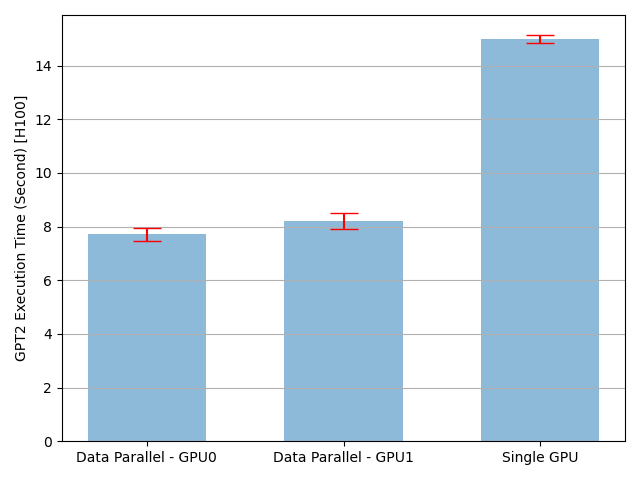
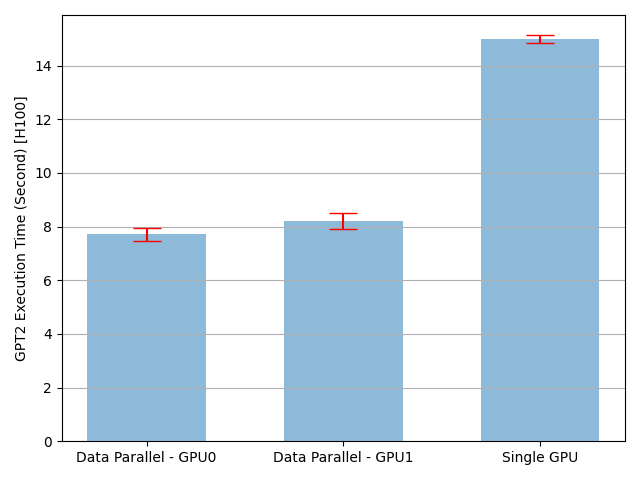
HW5 submission

diff --git a/homeworks/llmsys_f25_hw5/pipeline/pipe.py b/homeworks/llmsys_f25_hw5/pipeline/pipe.py
@@ -5,7 +5,7 @@ from torch import Tensor, nn
 import torch.autograd
 import torch.cuda
 from .worker import Task, create_workers
-from .partition import _split_module
+from .partition import _split_module, WithDevice
 
 def _clock_cycles(num_batches: int, num_partitions: int) -> Iterable[List[Tuple[int, int]]]:
     '''Generate schedules for each clock cycle.
@@ -63,13 +63,17 @@ class Pipe(nn.Module):
         Please note that you should put the result on the last device. Putting the result on the same device as input x will lead to pipeline parallel training failing.
         '''
         # BEGIN ASSIGN5_2_2
+
         batches = list(x.split(self.split_size, dim=0))
+
         num_batches = len(batches)
         num_partitions = len(self.partitions)
         
         for schedule in _clock_cycles(num_batches, num_partitions):
           self.compute(batches, schedule)
-          
+
+        # for i, batch in enumerate(batches):
+        #     batch.to(self.devices[-1])
         result = torch.cat(batches, dim=0)
         return result
         # raise NotImplementedError("Pipeline Parallel Not Implemented Yet")
@@ -94,17 +98,41 @@ class Pipe(nn.Module):
             partition = partitions[j]
             device = devices[j]
             batch = batch.to(device)
-            task = Task(partition(batch))
+            from pipeline.partition import _retrieve_device
+            if batch.device != _retrieve_device(partition):
+                raise Exception("Batch and module are not on same device")
+            task = Task(lambda b=batch, p=partition: p(b))
             self.in_queues[j].put(task)
             
         for i, j in schedule:
           success, result = self.out_queues[j].get()
           if not success:
               exc_info = result
-              raise Exception(str(exc_info))
+              raise Exception(j, str(exc_info))
 
           task, batch = result
+        #   batch.to(self.devices[-1])
           batches[i] = batch
+          
         # raise NotImplementedError("Pipeline Parallel Not Implemented Yet")
         # END ASSIGN5_2_2
 
+if __name__ == "__main__":
+    batch_size = 16
+    split_size = 2
+    model = nn.Sequential(
+        nn.Linear(3, 4).to('cuda:0'),
+        WithDevice(nn.Sigmoid(), 'cuda:0'),
+        nn.Linear(4, 5).to('cuda:0'),
+        WithDevice(nn.Sigmoid(), 'cuda:0'),
+    )
+    
+    x = torch.randn(batch_size, 3).to('cuda:0')
+    y0 = model(x).to('cpu')
+
+    # move the last two layer to another device
+    model[-2] = model[-2].to('cuda:1')
+    model[-1] = WithDevice(nn.Sigmoid(), 'cuda:1')
+    pipe = Pipe(model, split_size=split_size)
+    y1 = pipe(x).to('cpu')
+    assert torch.allclose(y0, y1)

diff --git a/homeworks/llmsys_f25_hw5/pipeline/partition.py b/homeworks/llmsys_f25_hw5/pipeline/partition.py
@@ -63,6 +63,7 @@ def _split_module(modules: nn.Sequential) -> Tuple[List[nn.Sequential], List[tor
             module_device = module.device
         else:
             module_device = _retrieve_device(module=module)
+
         if current_device == None:
             current_device = module_device
             current_partition.append(module)
@@ -71,13 +72,9 @@ def _split_module(modules: nn.Sequential) -> Tuple[List[nn.Sequential], List[tor
         else:
             partitions.append(_assemble_partition(current_partition))
             devices.append(current_device)
+            current_partition = [module]
             current_device = module_device
-            current_partition = []
-            current_partition.append(module)
-            
-        current_partition.append(module)
-        devices.append(current_device)
-        print(f"Name: {name}, Device: {current_device}")
+
         # raise NotImplementedError("Module Splitting Not Implemented Yet")
         # END ASSIGN5_2_1
 
@@ -86,7 +83,10 @@ def _split_module(modules: nn.Sequential) -> Tuple[List[nn.Sequential], List[tor
         devices.append(current_device)
 
     partitions = nn.ModuleList(partitions)
-
+    
+    for i, p in enumerate(partitions):
+        if _retrieve_device(p) != devices[i]:
+            print("Caught you!")
     return partitions, devices
 
 
@@ -94,7 +94,7 @@ if __name__ == "__main__":
     model = nn.Sequential(
           nn.Conv2d(10,20,5).to('cuda:0'),
           nn.Conv2d(20,64,5).to('cuda:0'),
-          nn.Conv2d(64,128,5).to('cuda:0'),
+          nn.Conv2d(64,128,5).to('cuda:1'),
     )
     partitions, devices = _split_module(model)
     assert len(partitions) == 2

diff --git a/homeworks/llmsys_f25_hw5/pipeline/model_parallel.py b/homeworks/llmsys_f25_hw5/pipeline/model_parallel.py
@@ -12,7 +12,7 @@ from transformers.modeling_outputs import (
 from transformers import AutoConfig, GPT2Model, GPT2PreTrainedModel
 
 from .pipe import Pipe
-from .partition import WithDevice, _retrieve_device
+from .partition import WithDevice, _retrieve_device, _split_module
 from .model import GPT2ModelCustom, GPT2LMHeadModelCustom
 
 class ExtractFirstItem(nn.Module):
@@ -40,8 +40,23 @@ class GPT2ModelParallel(GPT2ModelCustom):
         '''
 
         # BEGIN ASSIGN5_2_3
-        pipe = None
-        raise NotImplementedError("Pipeline Parallel Not Implemented Yet")
+        self.pipeline_parallel = True
+        
+        class GPT2BlockWrapper(nn.Module):
+            def __init__(self, block):
+                super().__init__()
+                self.block = block
+
+            def forward(self, x):
+                output = self.block(x)
+                if isinstance(output, tuple):
+                    return output[0]
+                return output
+        wrapped_blocks = [GPT2BlockWrapper(block) for block in self.h]
+        layers = nn.Sequential(*wrapped_blocks)
+        pipe = Pipe(layers, split_size=split_size)
+
+        # raise NotImplementedError("Pipeline Parallel Not Implemented Yet")
         # END ASSIGN5_2_3
         self.h_pp = pipe
 

diff --git a/homeworks/llmsys_f25_hw5/project/plot.py b/homeworks/llmsys_f25_hw5/project/plot.py
@@ -32,9 +32,16 @@ if __name__ == '__main__':
         ['Data Parallel - 2GPUs', 'Single GPU'],
         'ddp_vs_rn_tps.png', title="GPT2 Tokens per Second [H100]")
 
-    # pp_mean, pp_std = None, None
-    # mp_mean, mp_std = None, None
-    # plot([pp_mean, mp_mean],
-    #     [pp_std, mp_std],
-    #     ['Pipeline Parallel', 'Model Parallel'],
-    #     'pp_vs_mp.png')
+    pp_mean, pp_std = 41.888131499290466, 0.997773289680481
+    mp_mean, mp_std = 36.94660031795502, 0.2459026575088501
+    plot([pp_mean, mp_mean],
+        [pp_std, mp_std],
+        ['Pipeline Parallel', 'Model Parallel'],
+        'pp_vs_mp.png', title="GPT2 Execution Time(seconds) [A100]")
+    
+    pp_mean, pp_std = 15287.464799959647, 364.1466806555618
+    mp_mean, mp_std = 17323.064802567333, 115.29579540446139
+    plot([pp_mean, mp_mean],
+        [pp_std, mp_std],
+        ['Pipeline Parallel', 'Model Parallel'],
+        'pp_vs_mp_tps.png', title="GPT2 tokens per seconds [A100]")
